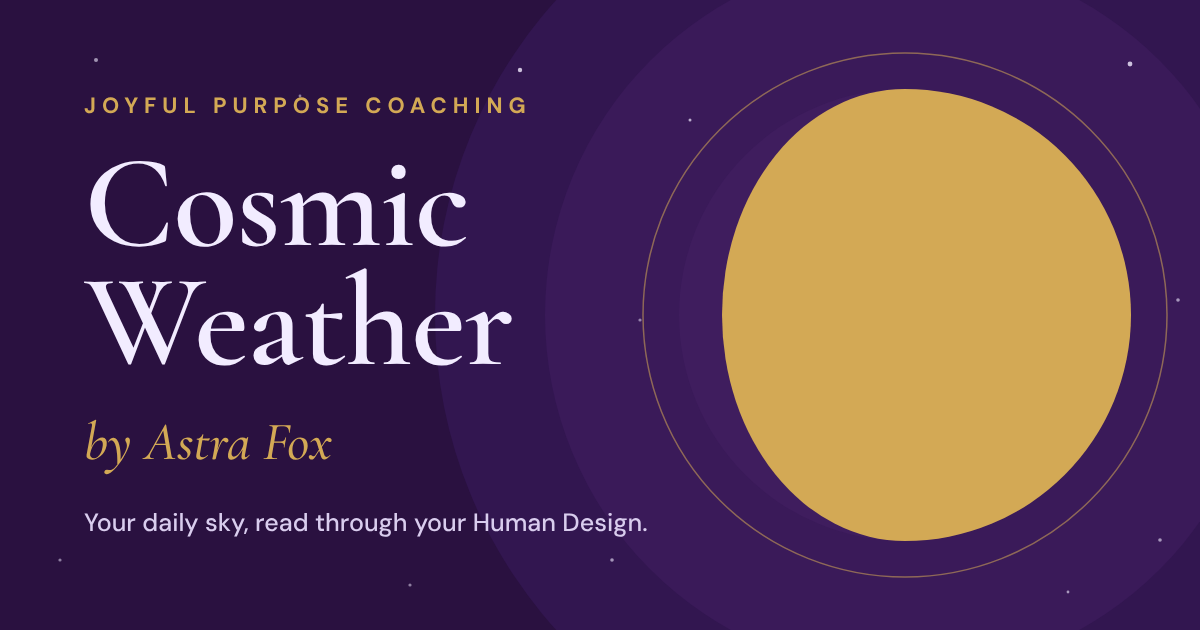
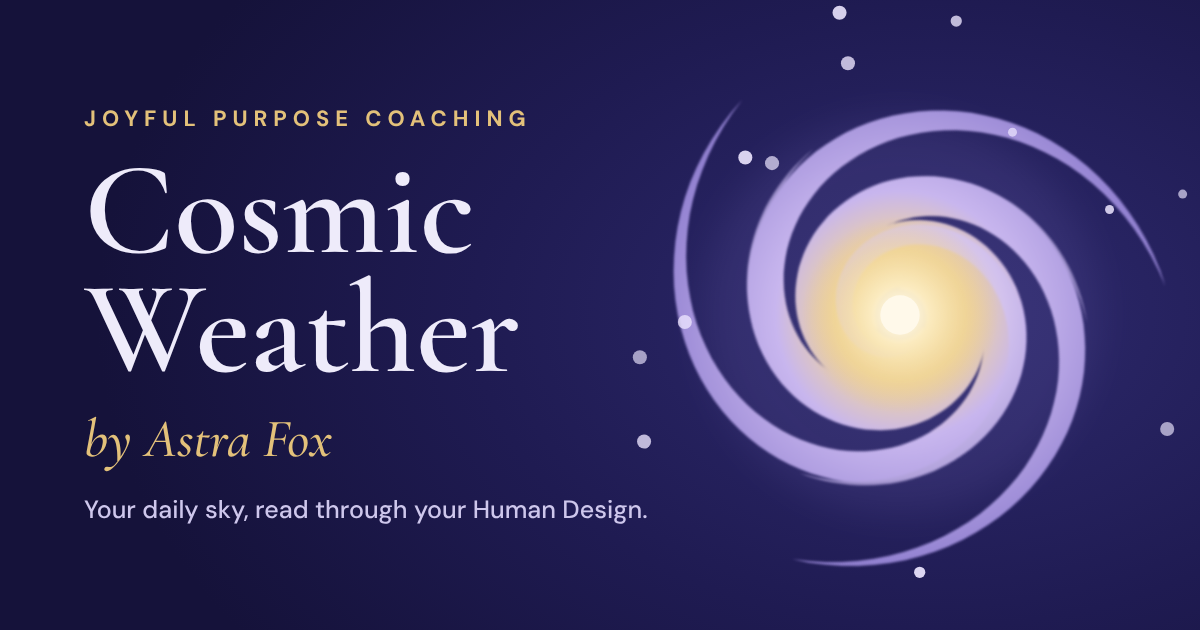
Move the app onto the Cosmos palette
Deep indigo replaces plum, with lavender accents and a warmer gold
taken from the Cosmos icon. The sign-in screen leads with the Cosmos
mark, and the link preview card is redrawn with the galaxy.

Claude-Session: https://claude.ai/code/session_01WRPSfhZAFGaEUzd9SHAfVd

diff --git a/src/styles.css b/src/styles.css
@@ -1,13 +1,14 @@
-/* Joyful Purpose brand: deep purple, gold, pale lilac. Cormorant Garamond headings over DM Sans. */
+/* Cosmic Weather brand (Cosmos palette): deep indigo, lavender, warm gold, pale lavender. Cormorant Garamond headings over DM Sans. */
 :root {
-  --purple: #2a1140;
-  --purple-2: #3f1d5e;
-  --gold: #d3a955;
+  --purple: #1F1B52;
+  --purple-2: #2E2A6E;
+  --gold: #E3C17A;
   --gold-ink: #7a5a14;
-  --lilac: #f2ecff;
-  --lilac-2: #ddd0f5;
-  --soft: #d9cdee;
-  --muted: #5a4673;
+  --lilac: #EEEBFA;
+  --lilac-2: #D7D0F2;
+  --soft: #CEC7EC;
+  --muted: #565081;
+  --lavender: #A99DDB;
   --white: #ffffff;
   --display: 'Cormorant Garamond', Georgia, serif;
   --body: 'DM Sans', system-ui, -apple-system, sans-serif;
@@ -136,14 +137,14 @@ textarea { resize: vertical; line-height: 1.6; }
 
 /* ---------- Today: sky panel ---------- */
 .sky-panel { position: relative; overflow: hidden; margin: calc(-24px - env(safe-area-inset-top, 0px)) -16px 0; padding: calc(34px + env(safe-area-inset-top, 0px)) 24px 26px; border-radius: 0 0 36px 36px; color: var(--lilac); display: flex; flex-direction: column; gap: 22px;
-  background: radial-gradient(120% 70% at 85% 0%, #4a2470 0%, rgba(74, 36, 112, 0) 60%), linear-gradient(180deg, #1c0a2e 0%, var(--purple) 55%, #3a1a59 100%); }
+  background: radial-gradient(120% 70% at 85% 0%, #3D3786 0%, rgba(61, 55, 134, 0) 60%), linear-gradient(180deg, #15123A 0%, var(--purple) 55%, #2B2668 100%); }
 .starfield { position: absolute; inset: 0; width: 100%; height: 100%; pointer-events: none; }
 .sky-panel > *:not(.starfield) { position: relative; }
 .sky-panel h1 { font-weight: 600; font-size: 40px; line-height: 1.02; margin-top: 6px; }
 .sky-moon { display: flex; align-items: center; gap: 20px; }
 .sky-moon > div { display: flex; flex-direction: column; gap: 3px; min-width: 0; }
 .sky-moon h2 { font-weight: 600; font-size: 32px; line-height: 1; margin: 2px 0 4px; }
-.sky-moon svg { filter: drop-shadow(0 0 22px rgba(211, 169, 85, 0.45)); }
+.sky-moon svg { filter: drop-shadow(0 0 22px rgba(227, 193, 122, 0.45)); }
 .sky-fact { font-size: 14px; color: var(--soft); }
 .star-row { display: flex; flex-direction: column; align-items: flex-start; gap: 8px; font-size: 14px; }
 .rating { font-weight: 700; font-size: 14px; padding: 7px 14px; border-radius: 16px; background: var(--gold); color: var(--purple); }
@@ -220,15 +221,15 @@ textarea { resize: vertical; line-height: 1.6; }
 .sky-caption { display: flex; flex-direction: column; align-items: center; gap: 4px; align-self: stretch; }
 .sky-caption h2 { font-weight: 600; font-size: 40px; line-height: 1; }
 .sky-facts { align-self: stretch; display: grid; grid-template-columns: repeat(3, minmax(0, 1fr)); gap: 8px; margin-top: 12px; }
-.sky-facts div { background: rgba(242, 236, 255, 0.08); border: 1px solid rgba(211, 169, 85, 0.3); border-radius: 16px; padding: 10px 6px; display: flex; flex-direction: column; min-width: 0; }
+.sky-facts div { background: rgba(238, 235, 250, 0.08); border: 1px solid rgba(227, 193, 122, 0.3); border-radius: 16px; padding: 10px 6px; display: flex; flex-direction: column; min-width: 0; }
 .sky-facts b { font-family: var(--display); font-weight: 700; font-size: 22px; line-height: 1.15; color: var(--gold); }
 .sky-facts span { font-size: 12px; color: var(--soft); }
 .star-row { align-items: center; text-align: center; }
 
 /* ---------- musical mantra ---------- */
 .mantra { display: flex; align-items: center; gap: 16px; padding: 20px; border-radius: 28px; color: var(--lilac); border: 1px solid var(--gold);
-  background: linear-gradient(135deg, #3f1d5e 0%, var(--purple) 70%); }
-.mantra-play { flex: none; width: 64px; height: 64px; border-radius: 50%; border: 0; background: var(--gold); color: var(--purple); display: grid; place-items: center; cursor: pointer; box-shadow: 0 0 0 6px rgba(211, 169, 85, 0.18); }
+  background: linear-gradient(135deg, #2E2A6E 0%, var(--purple) 70%); }
+.mantra-play { flex: none; width: 64px; height: 64px; border-radius: 50%; border: 0; background: var(--gold); color: var(--purple); display: grid; place-items: center; cursor: pointer; box-shadow: 0 0 0 6px rgba(227, 193, 122, 0.18); }
 .mantra-body { flex: 1; min-width: 0; display: flex; flex-direction: column; gap: 3px; }
 .mantra h3 { font-weight: 600; font-size: 26px; line-height: 1.05; }
 .mantra .soft { font-size: 13px; }
@@ -243,7 +244,7 @@ input[type='file'] { padding: 10px; }
 .place-list .place-result:last-child { border-bottom: 0; }
 
 /* ---------- opening insight ---------- */
-.opening { align-self: stretch; text-align: left; display: flex; flex-direction: column; gap: 8px; padding: 18px 20px; border-radius: 24px; background: rgba(28, 10, 46, 0.55); border: 1px solid rgba(211, 169, 85, 0.45); backdrop-filter: blur(3px); }
+.opening { align-self: stretch; text-align: left; display: flex; flex-direction: column; gap: 8px; padding: 18px 20px; border-radius: 24px; background: rgba(21, 18, 58, 0.55); border: 1px solid rgba(227, 193, 122, 0.45); backdrop-filter: blur(3px); }
 .opening h2 { font-style: italic; font-weight: 600; font-size: 31px; line-height: 1.08; }
 .opening .hook { font-weight: 700; color: var(--gold); font-size: 16px; }
 .opening .soft { font-size: 14px; }
@@ -255,7 +256,7 @@ html { scroll-behavior: smooth; }
 /* ---------- arrival tap and the before/after line ---------- */
 .arrive { align-self: stretch; display: flex; align-items: center; justify-content: space-between; gap: 12px; flex-wrap: wrap; font-size: 14px; color: var(--soft); text-align: left; }
 .arrive div { display: flex; gap: 6px; }
-.arrive button { width: 44px; height: 44px; border-radius: 50%; border: 1px solid rgba(211, 169, 85, 0.5); background: rgba(242, 236, 255, 0.06); color: var(--lilac); font-family: var(--display); font-size: 20px; font-weight: 700; cursor: pointer; }
+.arrive button { width: 44px; height: 44px; border-radius: 50%; border: 1px solid rgba(227, 193, 122, 0.5); background: rgba(238, 235, 250, 0.06); color: var(--lilac); font-family: var(--display); font-size: 20px; font-weight: 700; cursor: pointer; }
 .arrive button[aria-pressed='true'] { background: var(--gold); border-color: var(--gold); color: var(--purple); }
 .shift { background: var(--lilac); border-radius: 14px; padding: 12px 14px; font-weight: 500; }
 
@@ -314,10 +315,10 @@ html { scroll-behavior: smooth; }
 .dial { display: grid; grid-template-columns: repeat(5, minmax(0, 1fr)); gap: 10px; width: 100%; max-width: 360px; margin: 6px auto 2px; }
 .dial button { background: none; border: 0; padding: 0; cursor: pointer; display: flex; flex-direction: column; align-items: center; gap: 8px; color: inherit; }
 .dial b { width: 100%; aspect-ratio: 1; border-radius: 50%; display: grid; place-items: center; font-family: var(--display); font-weight: 700; font-size: 34px; line-height: 1; padding-bottom: 3px; color: var(--gold);
-  background: radial-gradient(circle at 35% 28%, #4a2470 0%, var(--purple) 70%); border: 1.5px solid var(--gold); box-shadow: 0 6px 16px rgba(42, 17, 64, 0.22); transition: transform 0.18s ease, box-shadow 0.18s ease; }
+  background: radial-gradient(circle at 35% 28%, #3D3786 0%, var(--purple) 70%); border: 1.5px solid var(--gold); box-shadow: 0 6px 16px rgba(31, 27, 82, 0.22); transition: transform 0.18s ease, box-shadow 0.18s ease; }
 .dial span { font-size: 11px; font-weight: 700; letter-spacing: 1px; text-transform: uppercase; }
 .dial button:active b { transform: scale(0.94); }
-.dial button[aria-pressed='true'] b { color: var(--purple); border-color: #f6dfa4; background: radial-gradient(circle at 35% 28%, #fff4d6 0%, #e9c877 45%, var(--gold) 100%); box-shadow: 0 0 0 5px rgba(211, 169, 85, 0.28), 0 8px 22px rgba(211, 169, 85, 0.45); transform: scale(1.08); }
+.dial button[aria-pressed='true'] b { color: var(--purple); border-color: #f6dfa4; background: radial-gradient(circle at 35% 28%, #fff4d6 0%, #EED39A 45%, var(--gold) 100%); box-shadow: 0 0 0 5px rgba(227, 193, 122, 0.28), 0 8px 22px rgba(227, 193, 122, 0.45); transform: scale(1.08); }
 @media (prefers-reduced-motion: reduce) { .dial b { transition: none; } }
 
 .arrive { flex-direction: column; align-items: center; justify-content: center; text-align: center; gap: 10px; color: var(--lilac); margin: 6px 0 4px; }
@@ -343,9 +344,9 @@ html { scroll-behavior: smooth; }
 .bg-path { stroke: var(--lilac-2); stroke-width: 5; stroke-linecap: round; }
 .bg-path.mine { stroke: var(--gold); stroke-width: 6; }
 .bg-path.lent { stroke: var(--gold); stroke-width: 5; stroke-dasharray: 3 8; animation: march 1.6s linear infinite; }
-.bg-center { fill: var(--white); stroke: #b9a7df; stroke-width: 2; stroke-linejoin: round; }
+.bg-center { fill: var(--white); stroke: #A99DDB; stroke-width: 2; stroke-linejoin: round; }
 .bg-center.mine { fill: var(--gold); stroke: var(--purple); }
-.bg-ring { fill: rgba(211, 169, 85, 0.16); stroke: var(--gold); stroke-width: 2; transform-origin: center; transform-box: fill-box; animation: ring 2.4s ease-in-out infinite; }
+.bg-ring { fill: rgba(227, 193, 122, 0.16); stroke: var(--gold); stroke-width: 2; transform-origin: center; transform-box: fill-box; animation: ring 2.4s ease-in-out infinite; }
 @keyframes ring { 0%, 100% { transform: scale(0.82); opacity: 0.55; } 50% { transform: scale(1.12); opacity: 1; } }
 @keyframes march { to { stroke-dashoffset: -22; } }
 @media (prefers-reduced-motion: reduce) { .bg-ring, .bg-path.lent { animation: none; } }
@@ -353,8 +354,8 @@ html { scroll-behavior: smooth; }
 .legend span { display: inline-flex; align-items: center; gap: 6px; }
 .legend i { width: 13px; height: 13px; border-radius: 4px; display: inline-block; }
 .k-mine { background: var(--gold); border: 1.5px solid var(--purple); }
-.k-open { background: var(--white); border: 1.5px solid #b9a7df; }
-.k-ring { border-radius: 50% !important; background: rgba(211, 169, 85, 0.25); border: 1.5px solid var(--gold); }
+.k-open { background: var(--white); border: 1.5px solid #A99DDB; }
+.k-ring { border-radius: 50% !important; background: rgba(227, 193, 122, 0.25); border: 1.5px solid var(--gold); }
 .experiment { align-self: stretch; background: var(--purple); color: var(--lilac); border-radius: 20px; padding: 18px; display: flex; flex-direction: column; gap: 6px; }
 .experiment .eyebrow { color: var(--gold); }
 .experiment p { font-family: var(--display); font-style: italic; font-weight: 600; font-size: 22px; line-height: 1.25; }
@@ -362,11 +363,11 @@ html { scroll-behavior: smooth; }
 /* ---------- three prompts, choose one ---------- */
 .pick-one { margin-top: 10px; }
 .prompts { align-self: stretch; display: flex; flex-direction: column; gap: 10px; }
-.prompts button { text-align: left; padding: 16px 18px; border-radius: 20px; border: 1px solid rgba(211, 169, 85, 0.45); background: var(--purple-2); color: var(--lilac); cursor: pointer; display: flex; flex-direction: column; gap: 6px; transition: transform 0.15s ease, opacity 0.15s ease; }
+.prompts button { text-align: left; padding: 16px 18px; border-radius: 20px; border: 1px solid rgba(227, 193, 122, 0.45); background: var(--purple-2); color: var(--lilac); cursor: pointer; display: flex; flex-direction: column; gap: 6px; transition: transform 0.15s ease, opacity 0.15s ease; }
 .prompts span { font-size: 11px; font-weight: 700; letter-spacing: 2px; text-transform: uppercase; color: var(--gold); }
 .prompts b { font-family: var(--display); font-style: italic; font-weight: 600; font-size: 21px; line-height: 1.22; color: var(--lilac); }
 .prompts:has([aria-pressed='true']) button[aria-pressed='false'] { opacity: 0.5; }
-.prompts button[aria-pressed='true'] { background: linear-gradient(135deg, #fff4d6 0%, #e9c877 60%, var(--gold) 100%); border-color: #f6dfa4; transform: scale(1.02); }
+.prompts button[aria-pressed='true'] { background: linear-gradient(135deg, #fff4d6 0%, #EED39A 60%, var(--gold) 100%); border-color: #f6dfa4; transform: scale(1.02); }
 .prompts button[aria-pressed='true'] span, .prompts button[aria-pressed='true'] b { color: var(--purple); }
 
 /* ---------- dark versions of the check-in and weather boxes ---------- */
@@ -375,7 +376,7 @@ html { scroll-behavior: smooth; }
 .tile.dark.checkin .dial button[aria-pressed='true'] span { color: var(--gold); }
 .tile.dark.checkin .dial b { box-shadow: 0 6px 16px rgba(0, 0, 0, 0.3); }
 .tile.dark .shift { background: var(--purple-2); color: var(--lilac); }
-.tile.dark textarea { background: var(--purple-2); border-color: rgba(211, 169, 85, 0.35); color: var(--lilac); }
+.tile.dark textarea { background: var(--purple-2); border-color: rgba(227, 193, 122, 0.35); color: var(--lilac); }
 .tile.dark textarea::placeholder { color: var(--soft); }
 .tile.dark .btn.dark { background: var(--gold); color: var(--purple); }
 .tile.dark.weather .wx-home { color: var(--lilac); }
@@ -388,3 +389,4 @@ html { scroll-behavior: smooth; }
 .tile.dark .place-card .special { color: var(--purple); }
 .tile.dark .rating { color: var(--purple); }
 .tile.dark .rating.r-poor { color: var(--soft); }
+.brand-mark { border-radius: 26%; box-shadow: 0 10px 30px rgba(0, 0, 0, 0.35), 0 0 0 1px rgba(169, 157, 219, 0.35); }

diff --git a/src/MoonHero.jsx b/src/MoonHero.jsx
@@ -17,7 +17,7 @@ export default function MoonHero({ elong, label }) {
     const major = i % 15 === 0
     const r1 = D - (major ? 5 : 2.5)
     const r2 = D + (major ? 5 : 2.5)
-    return <line key={i} x1={100 + r1 * Math.sin(t)} y1={100 - r1 * Math.cos(t)} x2={100 + r2 * Math.sin(t)} y2={100 - r2 * Math.cos(t)} stroke="#D3A955" strokeWidth={major ? 1.4 : 0.7} opacity={major ? 0.9 : 0.45} />
+    return <line key={i} x1={100 + r1 * Math.sin(t)} y1={100 - r1 * Math.cos(t)} x2={100 + r2 * Math.sin(t)} y2={100 - r2 * Math.cos(t)} stroke="#E3C17A" strokeWidth={major ? 1.4 : 0.7} opacity={major ? 0.9 : 0.45} />
   })
 
   return (
@@ -25,8 +25,8 @@ export default function MoonHero({ elong, label }) {
       <defs>
         <radialGradient id="mh-halo" cx="50%" cy="50%" r="50%">
           <stop offset="48%" stopColor="#F6DFA4" stopOpacity="0.5" />
-          <stop offset="72%" stopColor="#D3A955" stopOpacity="0.14" />
-          <stop offset="100%" stopColor="#D3A955" stopOpacity="0" />
+          <stop offset="72%" stopColor="#E3C17A" stopOpacity="0.14" />
+          <stop offset="100%" stopColor="#E3C17A" stopOpacity="0" />
         </radialGradient>
         <radialGradient id="mh-surface" cx="38%" cy="32%" r="78%">
           <stop offset="0%" stopColor="#FFF8E2" />
@@ -34,8 +34,8 @@ export default function MoonHero({ elong, label }) {
           <stop offset="100%" stopColor="#B88A3C" />
         </radialGradient>
         <radialGradient id="mh-dark" cx="40%" cy="35%" r="75%">
-          <stop offset="0%" stopColor="#4A2A6E" />
-          <stop offset="100%" stopColor="#1E0C33" />
+          <stop offset="0%" stopColor="#3A3478" />
+          <stop offset="100%" stopColor="#17133F" />
         </radialGradient>
         <filter id="mh-texture" x="0" y="0" width="100%" height="100%">
           <feTurbulence type="fractalNoise" baseFrequency="0.035" numOctaves="4" seed="11" />
@@ -56,10 +56,10 @@ export default function MoonHero({ elong, label }) {
       <circle className="mh-halo" cx="100" cy="100" r="100" fill="url(#mh-halo)" />
 
       {/* the cycle dial */}
-      <circle cx="100" cy="100" r={D} fill="none" stroke="#D3A955" strokeWidth="0.6" opacity="0.35" />
+      <circle cx="100" cy="100" r={D} fill="none" stroke="#E3C17A" strokeWidth="0.6" opacity="0.35" />
       {ticks}
-      <circle cx={mx} cy={my} r="9" fill="#D3A955" opacity="0.25" />
-      <circle cx={mx} cy={my} r="4.5" fill="#FFE9B0" stroke="#D3A955" strokeWidth="1.2" />
+      <circle cx={mx} cy={my} r="9" fill="#E3C17A" opacity="0.25" />
+      <circle cx={mx} cy={my} r="4.5" fill="#FFE9B0" stroke="#E3C17A" strokeWidth="1.2" />
 
       {/* the moon itself */}
       <g className="mh-moon">

diff --git a/src/screens/Login.jsx b/src/screens/Login.jsx
@@ -1,7 +1,5 @@
 import { useState } from 'react'
 import { signInWithPassword, signUpWithPassword, signInWithEmail } from '../store.js'
-import Moon from '../Moon.jsx'
-import { sky } from '../sky.js'
 import { ios, phoneBrowser } from '../device.js'
 
 export default function Login({ onSignedIn }) {
@@ -11,7 +9,6 @@ export default function Login({ onSignedIn }) {
   const [note, setNote] = useState('')
   const [busy, setBusy] = useState(false)
   const [showForm, setShowForm] = useState(!phoneBrowser)
-  const s = sky()
 
   const run = async (fn) => {
     setBusy(true)
@@ -47,7 +44,7 @@ export default function Login({ onSignedIn }) {
 
   return (
     <div className="login">
-      <Moon elong={s.elong} size={showForm ? 120 : 64} />
+      <img className="brand-mark" src="./icon.svg" alt="" width={showForm ? 112 : 72} height={showForm ? 112 : 72} />
       <span className="eyebrow gold">Joyful Purpose Coaching</span>
       <h1>Cosmic Weather</h1>
       <span className="by">by Astra Fox</span>

diff --git a/src/Moon.jsx b/src/Moon.jsx
@@ -6,9 +6,9 @@ export default function Moon({ elong, size = 84, label }) {
   const sweep = a < 90 ? 0 : 1
   return (
     <svg viewBox="0 0 100 100" width={size} height={size} role="img" aria-label={label || 'Moon phase'} style={{ flex: 'none' }}>
-      <circle cx="50" cy="50" r="49" fill="none" stroke="#D3A955" strokeWidth="0.6" opacity="0.5" />
-      <circle cx="50" cy="50" r="42" fill="#3F1D5E" />
-      <path d={`M50 8 A42 42 0 0 1 50 92 A${rx} 42 0 0 ${sweep} 50 8 Z`} fill="#D3A955" transform={waxing ? undefined : 'translate(100 0) scale(-1 1)'} />
+      <circle cx="50" cy="50" r="49" fill="none" stroke="#E3C17A" strokeWidth="0.6" opacity="0.5" />
+      <circle cx="50" cy="50" r="42" fill="#2E2A6E" />
+      <path d={`M50 8 A42 42 0 0 1 50 92 A${rx} 42 0 0 ${sweep} 50 8 Z`} fill="#E3C17A" transform={waxing ? undefined : 'translate(100 0) scale(-1 1)'} />
     </svg>
   )
 }

diff --git a/src/Flourish.jsx b/src/Flourish.jsx
@@ -2,10 +2,10 @@
 export default function Flourish() {
   return (
     <svg className="flourish" viewBox="0 0 160 24" width="160" height="24" aria-hidden="true">
-      <path d="M4 12h52M104 12h52" stroke="#D3A955" strokeWidth="1" strokeLinecap="round" opacity="0.7" />
-      <circle cx="64" cy="12" r="1.6" fill="#D3A955" />
-      <circle cx="96" cy="12" r="1.6" fill="#D3A955" />
-      <path d="M86 12a8 8 0 1 1-8-8 6.2 6.2 0 0 0 8 8z" fill="#D3A955" />
+      <path d="M4 12h52M104 12h52" stroke="#E3C17A" strokeWidth="1" strokeLinecap="round" opacity="0.7" />
+      <circle cx="64" cy="12" r="1.6" fill="#E3C17A" />
+      <circle cx="96" cy="12" r="1.6" fill="#E3C17A" />
+      <path d="M86 12a8 8 0 1 1-8-8 6.2 6.2 0 0 0 8 8z" fill="#E3C17A" />
     </svg>
   )
 }
